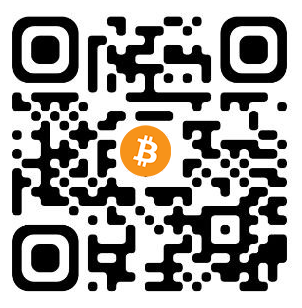
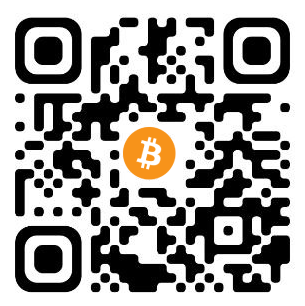
Yeni değişiklik yapıldı

diff --git a/src/App.js b/src/App.js
@@ -8,25 +8,25 @@ function App() {
       name: "Bitcoin(BTC)",
       img: `${process.env.PUBLIC_URL}/images/bitcoin.png`,
       qr: `${process.env.PUBLIC_URL}/images/btc-qr.png`,
-      address: "bc1qg3dmsr3j4smmc03v9h9m442n6wzmm72zgggdd0",
+      address: "bc1q3rzlwcxpan8tf8y69cev7vlxhldlsqraut89f8",
     },
     {
       name: "Ethereum(ETH)",
       img: `${process.env.PUBLIC_URL}/images/ethereum.png`,
       qr: `${process.env.PUBLIC_URL}/images/eth-qr.png`,
-      address: "0x6582399Fd1D1e7C6a1E51c04665281Bdb0686DFb",
+      address: "0x28f960341ADB6C15c2fB5d9D7769FD1431d9708D",
     },
     {
       name: "USDT(TRX)",
       img: `${process.env.PUBLIC_URL}/images/usdt.png`,
       qr: `${process.env.PUBLIC_URL}/images/usdt-qr.png`,
-      address: "TCCzVDqMJoqmgdbX71F1KBDPLKj4WC8e3y",
+      address: "THyD7hjCuuV8CkbVqEg3wtwoGYsTa8518p",
     },
     {
       name: "Litecoin(LTC)",
       img: `${process.env.PUBLIC_URL}/images/ltc.png`,
       qr: `${process.env.PUBLIC_URL}/images/ltc-qr.png`,
-      address: "ltc1qtpwtu5ww2yz2plv2ecczqz2cnx5ds6z27mq84l",
+      address: "ltc1qq8qe87c8t0pw6gval0klq0kxddnqytreq9g3wu",
     },
   ];
 
